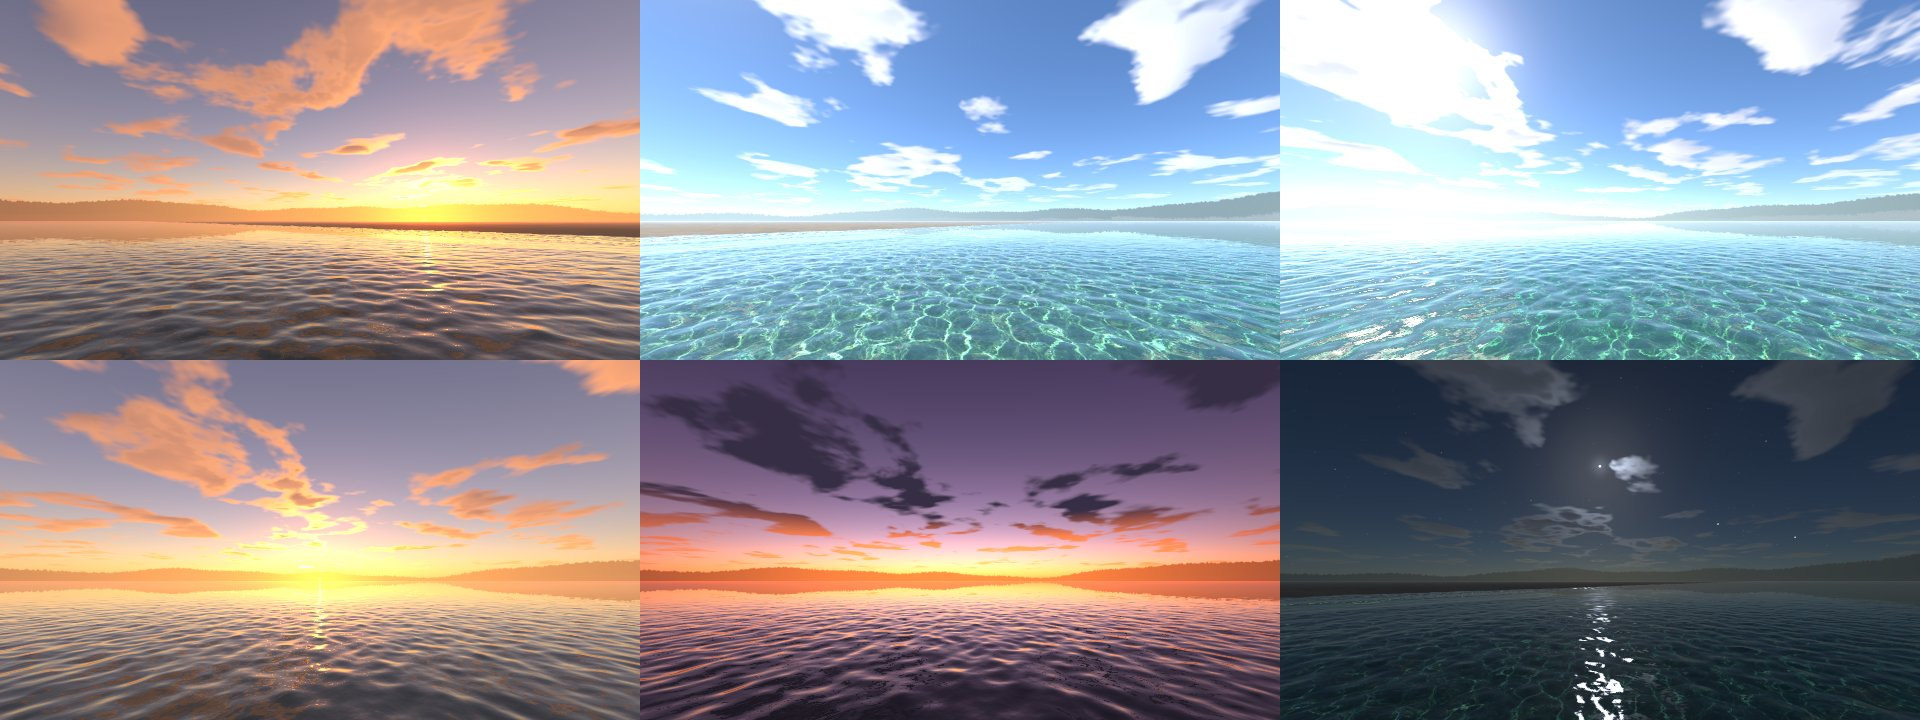
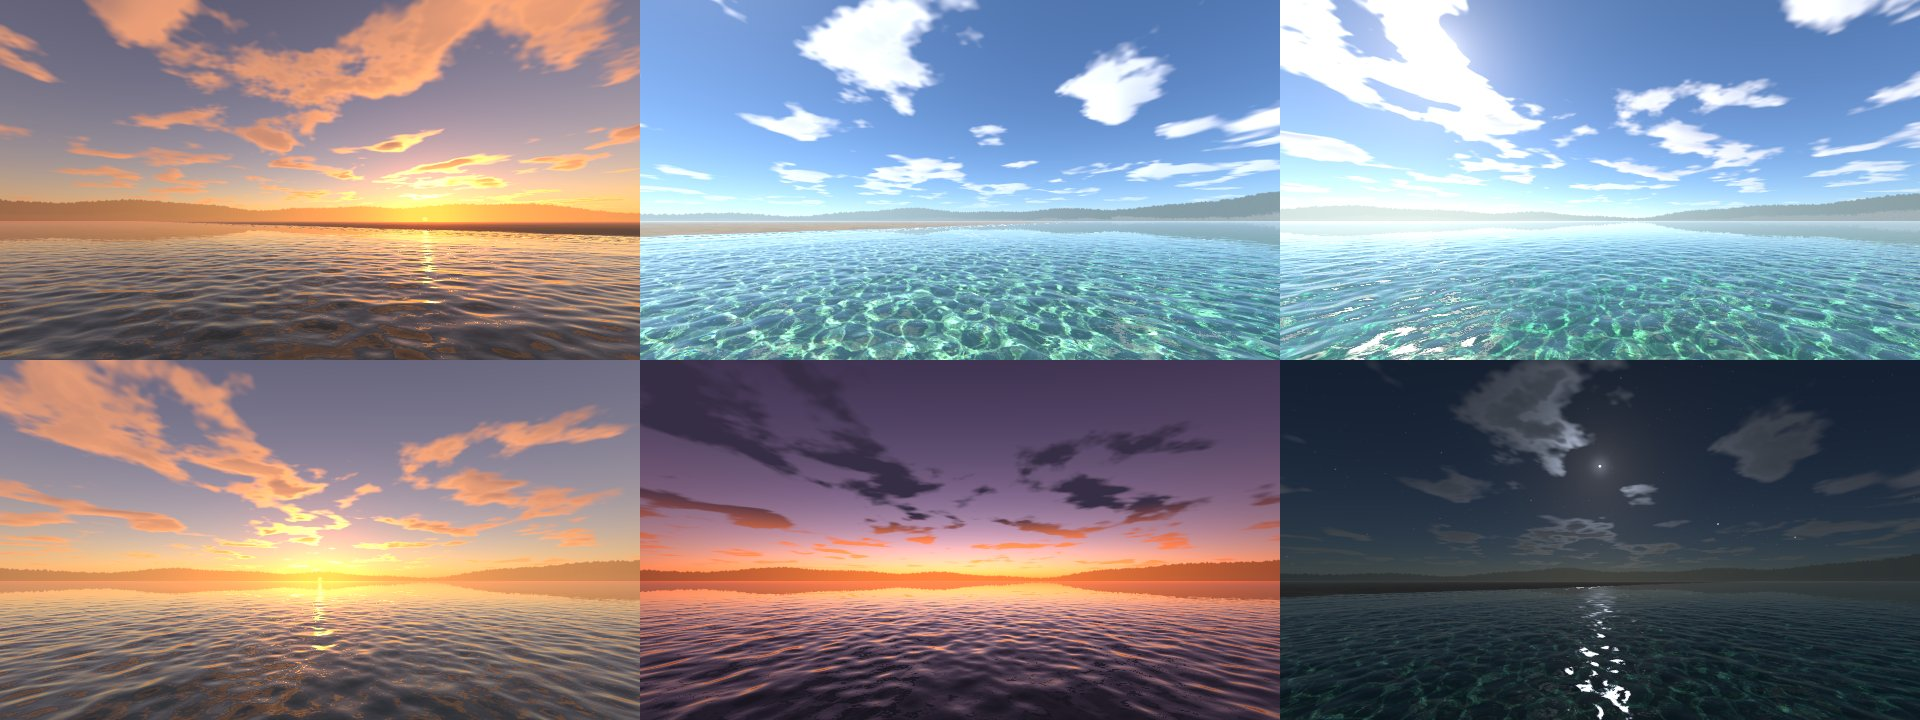
Highlights with gradation; no yellow line on the far shore (0.15.17)
- Tone curve: where a channel passes 0.8 once exposed, the brightest channel
  sets the level with the others in proportion (their hue kept, not each
  running into white), on a longer tail than the ACES fit's; below 0.8 it is
  unchanged. The post-processing LUT bakes the same curve.
- Sky of the day: the sky's own brightness halfway (in log terms) between
  matching the fixed sky on the whole and low round the horizon (the haze made
  the horizon 1.7 times the fixed sky's, into white); the analytic glare round
  the sun and the moon only the 3-degree core the table leaves out (the wider
  glow was counted twice).
- The seabed's marked pixels (where the water draws the floor) carry the shadow
  in their alpha (0.04 to 0.2) and the far water's haze as their colour: where
  the water leaves a sample of them uncovered (it decides per pixel, MSAA
  resolves per sample: the far shore's edge, round an avatar in the water),
  that blends in instead of the yellow of the data.

diff --git a/Runtime/Udon/ClearwaterSky.cs b/Runtime/Udon/ClearwaterSky.cs
@@ -166,7 +166,7 @@ public class ClearwaterSky : UdonSharpBehaviour
         // the fixed sky's: its sun, its light from the whole sky, its mean brightness (ClearwaterCommon.cginc)
         Vector3 fixedSun = new Vector3(6.0f, 5.4f, 4.44f);
         Vector3 fixedAmb = new Vector3(0.62f, 0.70f, 0.78f) * (Mathf.PI * 0.22f);
-        const float FixedSkyMean = 0.4397f;
+        const float FixedSkyMean = 0.4397f, FixedSkyHorizon = 0.595f; // (its mean luminance; all round, 5 degrees up)
         // the white balance and the exposure, one for all the light: the sun exactly the fixed sky's. The light in the
         // shade (the sky's, and what the ground gives back) and the sky itself as bright as the fixed sky's, in their
         // own colours
@@ -174,7 +174,12 @@ public class ClearwaterSky : UdonSharpBehaviour
         _wb = _sunScale / Lum(_sunScale); // (the white balance alone)
         Vector3 ambRef = Vector3.Scale(e + Bounce * (d * sinR + e), _sunScale);
         _ambScale = Lum(fixedAmb) / Mathf.Max(Lum(ambRef), 1e-20f);
-        _skyScale = FixedSkyMean / Mathf.Max(mean, 1e-20f);
+        // the sky itself: halfway (in log terms) between as bright as the fixed sky on the whole and as bright low
+        // round the horizon. The real sky is brighter there (the haze) and darker overhead than the fixed one: matched
+        // on the whole, its horizon ran into white; matched there, its zenith went dark
+        float onWhole = FixedSkyMean / Mathf.Max(mean, 1e-20f);
+        float onHorizon = FixedSkyHorizon / Mathf.Max(Lum(Vector3.Scale(h, _sunScale / Lum(_sunScale))), 1e-20f);
+        _skyScale = Mathf.Sqrt(onWhole * onHorizon);
         _yRef = Seen(d, sinR) + Lum(e);
         _meanRef = mean;
         float xn = -Mathf.Log(MoonlitNight), nb = -Mathf.Log(Mathf.Clamp(nightBrightness, 0.005f, 0.9f));

diff --git a/Editor/ClearwaterToneMapping.cs b/Editor/ClearwaterToneMapping.cs
@@ -158,13 +158,25 @@ public static class ClearwaterToneMapping
     static Vector3 Tonemap(Vector3 c, float exposure)
     {
         c *= exposure;
-        const float a = 2.51f, b = 0.03f, cc = 2.43f, d = 0.59f, e = 0.14f;
-        for (int i = 0; i < 3; i++) c[i] = Mathf.Clamp01((c[i] * (a * c[i] + b)) / (c[i] * (cc * c[i] + d) + e));
+        const float a = 2.51f, b = 0.03f, cc = 2.43f, d = 0.59f, e = 0.14f, Knee = 0.8f;
+        float m = Mathf.Max(c.x, Mathf.Max(c.y, c.z));
+        var y = c;
+        for (int i = 0; i < 3; i++) y[i] = Mathf.Clamp01((c[i] * (a * c[i] + b)) / (c[i] * (cc * c[i] + d) + e));
+        if (m > Knee) // (highlights: their hue kept, a longer tail)
+        {
+            float u = 1.2617f * (m - Knee), s = 0.7523f + 0.2477f * u / (1f + u);
+            var h = c * (s / m);
+            h = Vector3.Lerp(h, new Vector3(s, s, s), 0.7f * SmoothStep(4f, 40f, m));
+            y = Vector3.Lerp(y, h, SmoothStep(Knee, 1.3f, m));
+        }
+        c = y;
         float lum = Vector3.Dot(c, new Vector3(0.2126f, 0.7152f, 0.0722f));
         c = Vector3.Lerp(new Vector3(lum, lum, lum), c, 0.90f);
         float t = Mathf.Clamp01(lum / 0.35f); t = t * t * (3f - 2f * t);
         return Vector3.Lerp(Vector3.Scale(c, new Vector3(0.96f, 1.0f, 1.05f)), c, t);
     }
+
+    static float SmoothStep(float a, float b, float x) { float t = Mathf.Clamp01((x - a) / (b - a)); return t * t * (3f - 2f * t); }
 
     /// <summary>The shaders' tone curve as a 33^3 LUT over LogC-encoded HDR, for post-processing's External mode:
     /// the post pass then gives exactly the look the shaders do (its own ACES shapes highlights differently: whiter
